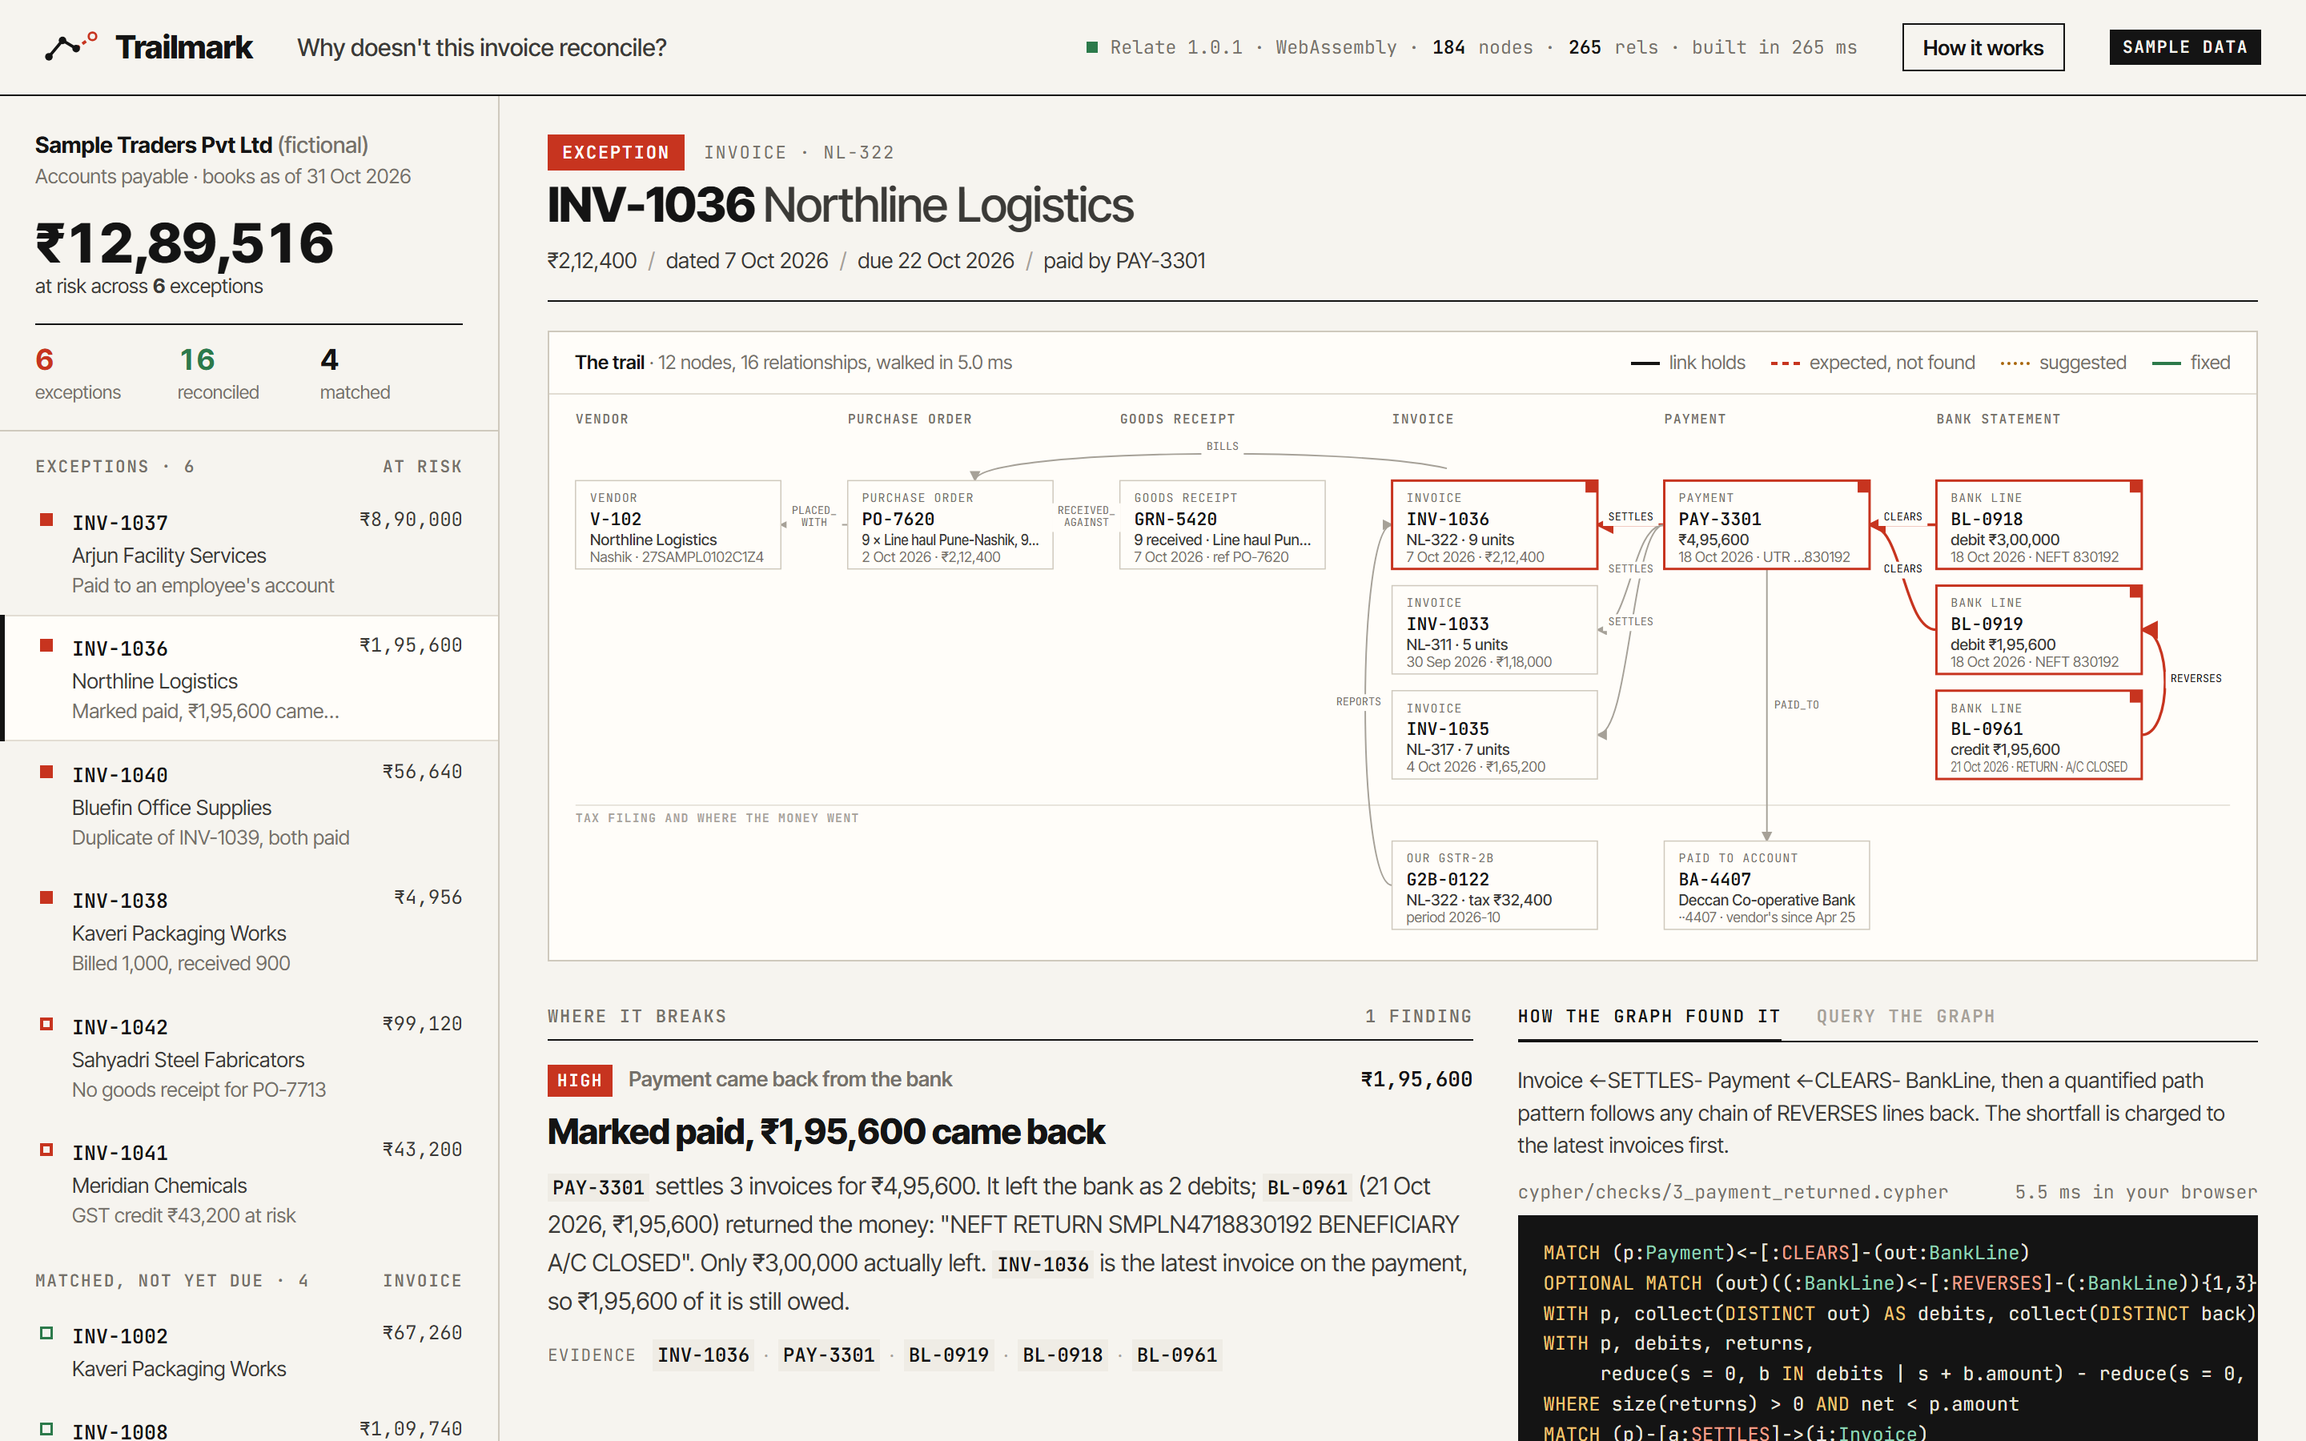
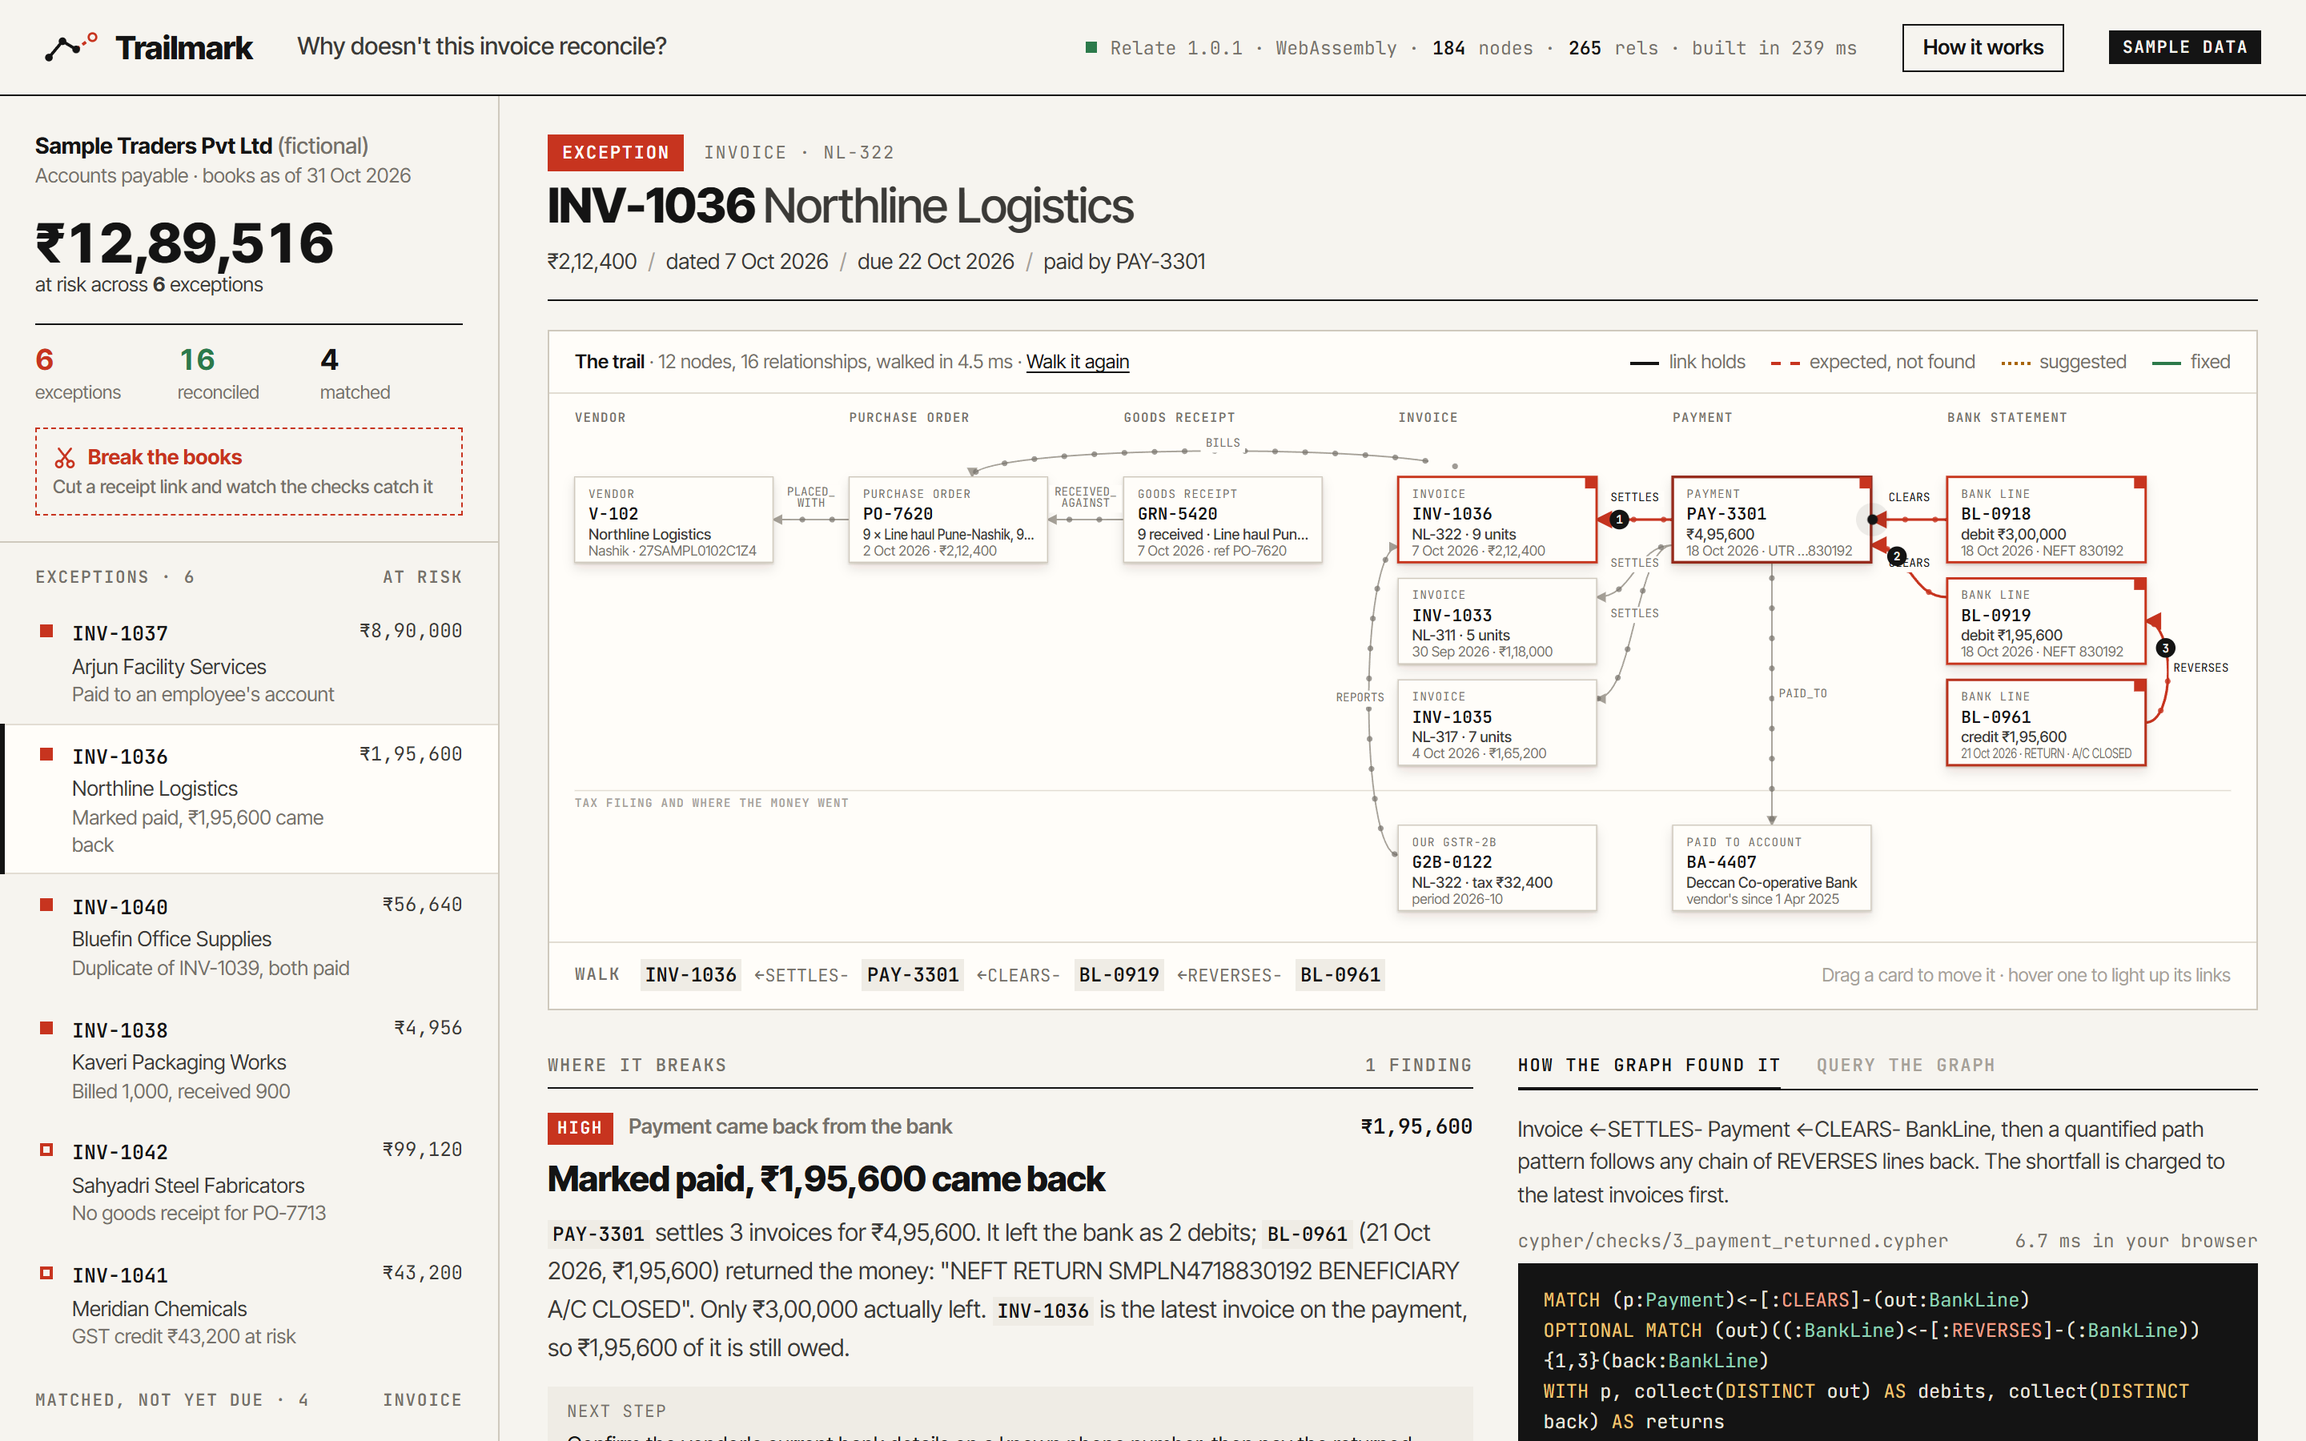
Review fixes: honest tie wording, one ruled-out receipt drawn, labels clear of badges, walks follow the money from the open invoice, next step per finding, warm timings, fresh screenshots

diff --git a/web/app.js b/web/app.js
@@ -57,12 +57,15 @@ function explain(id) {
     const m = r.match(/^(\S+) \(([\d.]+)(?:, already received against ([^)\s]+))?/);
     if (m) rejected[m[1]] = { score: m[2], po: m[3] || null, text: r };
   }
+  const shown = Object.keys(rejected).slice(0, 1);
+  for (const g of Object.keys(rejected)) if (!shown.includes(g)) delete rejected[g];
+  const moreRejected = found.reduce((a, f) => a + Math.max(0, (f.suggestion?.rejected || []).length - 1), 0);
   const extra = [...new Set(found.flatMap((f) => [...(f.path || []), ...(f.suggestion ? [f.suggestion.grn] : [])])
     .concat(Object.entries(rejected).flatMap(([g, r]) => (r.po ? [g, r.po] : [g]))))];
   const env = run(S.Q.trail.text, { id, extra });
   S.timings.trail = env.elapsed_ms;
   const t = env.rows[0];
-  return { inv, status: S.states[id], findings: found, nodes: t.nodes, rels: t.rels.filter(Boolean), rejected };
+  return { inv, status: S.states[id], findings: found, nodes: t.nodes, rels: t.rels.filter(Boolean), rejected, moreRejected };
 }
 
 // ---------------------------------------------------------------- formatting
@@ -304,7 +307,7 @@ function renderTrail(ex, animate) {
     const rej = ex.rejected?.[it.id];
     const ev = L.ev.has(it.id);
     const cls = ['card', isFixed ? 'fixed' : isCand ? 'cand' : rej ? 'rej' : '', ev && !isFixed ? 'ev' : '', ev && L.high ? 'high' : '', it.id === ex.inv.id ? 'focus' : '', animate ? 'appear' : ''].join(' ');
-    const kind = isCand ? 'Candidate receipt' : isFixed ? 'Receipt · linked now' : rej ? `Ruled out · text score ${rej.score}` : KIND[it.label];
+    const kind = isCand ? 'Candidate receipt' : isFixed ? 'Receipt · linked now' : rej ? `Ruled out · score ${rej.score}` : KIND[it.label];
     const l2b = rej ? (rej.po ? `already received against ${rej.po}` : 'different quantity') : l2;
     const tip = rej ? rej.text : GLOSS[it.label];
     cards += `<g class="${cls}" style="animation-delay:${delay}ms" data-id="${it.id}">${tip ? `<title>${esc(tip)}</title>` : ''}
@@ -312,7 +315,7 @@ function renderTrail(ex, animate) {
       <text class="k" x="${x + 12}" y="${y + 18}">${esc(kind)}</text>
       <text class="i" x="${x + 12}" y="${y + 37}">${esc(it.id)}</text>${rej ? `<line class="strike" x1="${x + 10}" x2="${x + 14 + it.id.length * 8.9}" y1="${y + 32}" y2="${y + 32}"/>` : ''}
       ${fit('l1', x + 12, y + 54, l1, 23)}
-      ${fit('l2', x + 12, y + 68, l2b, 26)}
+      ${fit('l2', x + 12, y + 68, l2b, 26)}${rej && ex.moreRejected ? `<text class="more" x="${x + 12}" y="${y + H + 14}">+${ex.moreRejected} more ruled out (see the finding)</text>` : ''}
       ${ev && !isFixed ? `<rect class="flag" x="${x + W - 10}" y="${y}" width="10" height="10"/>` : ''}</g>`;
   }
   const marker = (id, color) => `<marker id="arr-${id}" viewBox="0 0 8 8" refX="7" refY="4" markerWidth="7" markerHeight="7" orient="auto-start-reverse"><path d="M0 0 L8 4 L0 8 z" fill="${color}"/></marker>`;
@@ -339,6 +342,7 @@ function placeCut(svg) {
   if (!e) return b.remove();
   const pt = e.getPointAtLength(e.getTotalLength() / 2);
   b.setAttribute('transform', `translate(${pt.x} ${pt.y})`); b.setAttribute('opacity', '1');
+  svg.querySelector(`.elab[data-k="${e.dataset.k}"]`)?.setAttribute('transform', 'translate(0 -14)');
 }
 function cutLink(grn, po) {
   const inv = S.sel, svg = $('svg.trail');
@@ -389,9 +393,20 @@ function walkSteps(ex) {
     if (p.length && p[p.length - 1] === ex.inv.id && p[0] !== ex.inv.id) p = p.reverse();
     // the evidence can branch (one account, two people): each hop starts from the latest visited card it is joined to
     const joined = (x, y) => ex.rels.some((r) => (r.from === x && r.to === y) || (r.from === y && r.to === x));
-    for (let i = 1; i < p.length; i++) {
-      const from = p.slice(0, i).reverse().find((x) => joined(x, p[i])) || p[i - 1];
-      steps.push([from, p[i]]);
+    // walk as a chain that follows the money first (invoice, payment, account, its owner), then the paperwork and approvals;
+    // when the current card has no unvisited neighbour, back up to the last card that has one
+    const ORDER = ['SETTLES', 'PAID_TO', 'HAS_ACCOUNT', 'CLEARS', 'REVERSES', 'BILLS', 'RECEIVED_AGAINST', 'NEW_ACCOUNT', 'ENTERED', 'APPROVED', 'REPORTS'];
+    const rank = (x, y) => Math.min(...ex.rels.filter((r) => (r.from === x && r.to === y) || (r.from === y && r.to === x)).map((r) => (ORDER.indexOf(r.type) + 1) || 99));
+    const seen = [p.includes(ex.inv.id) ? ex.inv.id : p[0]];
+    while (seen.length < p.length) {
+      const left = p.filter((x) => !seen.includes(x));
+      let from = null, to = null;
+      for (const x of [...seen].reverse()) {
+        const opts = left.filter((y) => joined(x, y)).sort((u, v) => rank(x, u) - rank(x, v));
+        if (opts.length) { from = x; to = opts[0]; break; }
+      }
+      if (!to) { from = seen[seen.length - 1]; to = left[0]; }
+      steps.push([from, to]); seen.push(to);
     }
     if (f.missing) steps.push([f.missing.after, '__ghost_' + f.missing.label, KIND[f.missing.label] || 'link']);
   }
@@ -456,7 +471,7 @@ function walk(ex, quiet = false) {
 function hopBadge(el, a, b) {
   const svg = $('svg.trail'), layer = svg?.querySelector('.hops'); if (!layer) return;
   let pt;
-  if (el) pt = el.getPointAtLength(el.getTotalLength() / 2);
+  if (el) pt = el.getPointAtLength(el.getTotalLength() * (el.dataset.t ? 0.3 : 0.5));
   else { const A = LAST.pos[a], B = LAST.pos[b]; if (!A || !B) return; pt = { x: (A.x + B.x + W) / 2, y: (A.y + B.y + H) / 2 }; }
   const n = layer.children.length + 1;
   layer.insertAdjacentHTML('beforeend', `<g class="hopn${!el || el.classList.contains('brk') ? ' miss' : ''}" transform="translate(${pt.x} ${pt.y})"><circle r="8.5"/><text y="3.6" text-anchor="middle">${n}</text></g>`);
@@ -560,6 +575,7 @@ function renderStage(animate = true) {
       <div class="f-top"><span class="sev ${f.severity}">${f.severity.toUpperCase()}</span><span class="f-title">${esc(f.title)}</span><span class="f-amt">${inr(f.amount)}</span></div>
       <h3 class="f-head">${rich(f.headline)}</h3>
       <p class="f-detail">${rich(f.detail)}</p>
+      ${nextStep(f) ? `<p class="f-next"><span class="lbl">Next step</span>${esc(nextStep(f))}</p>` : ''}
       <div class="f-path"><span class="lbl">Evidence</span>${(f.path || []).map((id) => `<span class="chip" data-id="${id}">${id}</span>`).join('<span class="arr">·</span>')}</div>
       ${f.suggestion ? `<div class="fix"><div><p><b>Suggested fix:</b> ${rich(f.suggestion.text)}</p>
         <small>Vector search over receipt text from the same vendor scored it ${Number(f.suggestion.similarity).toFixed(2)}${(f.suggestion.rejected || []).length ? `; the graph ruled out ${f.suggestion.rejected.map(esc).join(', ')}` : ''}. The link is written to the graph in this tab only; reload to undo.</small></div>
@@ -592,6 +608,8 @@ function renderStage(animate = true) {
   placeCut($('svg.trail'));
   walk(ex);
 }
+
+function nextStep(f) { return S.Q.checks.find((c) => c.file === f.file)?.next || ''; }
 
 function fixedNote(grn, v) {
   return `<div class="fixed-note"><b>Linked ${grn} → ${v.po}</b> in this tab, recorded on the relationship as
@@ -632,7 +650,7 @@ function renderSide(ex) {
     side.innerHTML = tabs + files.map((c) => `
       <p class="q-why">${esc(c.graph || c.plain)}</p>
       <div class="q-file"><span>${c.file}</span><span>${fmtMs(S.timings[c.file] ?? S.timings.trail)} in your browser</span></div>
-      <pre class="cy">${highlight(c.text.split('\n').filter((l) => !/^\/\/\s*(title|plain|graph):/.test(l)).join('\n'))}</pre>`).join('<div style="height:18px"></div>');
+      <pre class="cy">${highlight(c.text.split('\n').filter((l) => !/^\/\/\s*(title|plain|graph|next):/.test(l)).join('\n'))}</pre>`).join('<div style="height:18px"></div>');
   } else {
     side.innerHTML = tabs + `<div class="console">
       <div class="presets">${PRESETS.map(([n], i) => `<button class="preset" data-preset="${i}">${esc(n)}</button>`).join('')}</div>
@@ -738,7 +756,7 @@ async function boot() {
     S.graph = graph; S.Q = Q;
     const t1 = performance.now();
     loadGraph();
-    scan();
+    scan(); explain('INV-1001'); scan(); // the first run warms the engine; show the second run's timings
     findCuttable();
     const n = graph.nodes.reduce((a, g) => a + g.rows.length, 0), r = graph.rels.reduce((a, g) => a + g.rows.length, 0);
     eng.classList.add('ready');

diff --git a/web/style.css b/web/style.css
@@ -353,3 +353,6 @@ table.res td { border-bottom: 1px solid var(--rule); padding: 5px 8px 5px 0; fon
 @media (max-width: 1180px) { .engine { display: none; } }
 @media (max-width: 960px) { .tagline { display: none; } }
 .linkish { border: none; background: none; padding: 0; font: inherit; font-family: var(--mono); font-weight: 600; font-size: 13px; text-decoration: underline; cursor: pointer; color: var(--red); }
+.card .more { font-size: 11px; fill: var(--ink-3); font-style: italic; }
+.f-next { margin: 12px 0 0; padding: 8px 12px; background: var(--paper-2); font-size: 13.5px; line-height: 1.5; color: var(--ink); }
+.f-next .lbl { display: block; font-family: var(--mono); font-size: 10.5px; letter-spacing: .06em; text-transform: uppercase; color: var(--ink-3); margin-bottom: 2px; }

diff --git a/README.md b/README.md
@@ -4,9 +4,9 @@
 
 **Why doesn't this invoice reconcile?** Trailmark follows an invoice through the accounts-payable trail (purchase order, goods receipt, invoice, payment, bank line, our GSTR-2B) as a [Relate](https://github.com/relatedb/relate) graph. It points at the exact link that is broken and shows the path that proves it.
 
-[**Live demo**](https://automationbot24x7.github.io/trailmark/) (runs in your browser, nothing to install) · [**Demo video (1:42)**](https://youtu.be/RA4vIVOmemc) · Python, CLI and AI-agent tools below
+[**Live demo**](https://automationbot24x7.github.io/trailmark/web/) (runs in your browser, nothing to install) · [**Demo video (1:42)**](https://youtu.be/RA4vIVOmemc) · Python, CLI and AI-agent tools below
 
-![Trailmark showing invoice INV-1042: the goods-receipt link is missing, and a receipt keyed against a non-existent PO is suggested as the fix](docs/shot-INV-1042.png)
+![Trailmark showing invoice INV-1042: the goods-receipt link is missing, a receipt keyed against a non-existent PO is suggested as the fix, and a look-alike receipt with a perfect text score is struck out because it already belongs to PO-7604](docs/shot-INV-1042.png)
 
 > **Sample data.** Every vendor, person, GSTIN, bank account and amount in this repo is invented. GSTINs carry `SAMPL` in the PAN slot and IFSC codes start with `SMPL`, so nothing can be mistaken for a real registration or account.
 
@@ -14,10 +14,12 @@
 
 Open any reconciled invoice in the live demo (or press **Break the books**) and cut its receipt link with the scissors. The link is removed from the Relate graph in your tab with a real `DELETE`, all six checks run again in a few milliseconds, and the invoice becomes an exception with the same receipt offered back as the fix. The test suite does the same for all 19 such invoices on every push: each cut is caught exactly once and nothing else changes ([`cypher/cuttable.cypher`](cypher/cuttable.cypher) picks them, `test_8` in [`tests/test_trailmark.py`](tests/test_trailmark.py) checks them).
 
+![INV-1001 after its receipt link was cut: the banner reads 7 exceptions (was 6), ₹13,29,164 at risk; the trail shows the missing receipt, the same receipt offered back as the fix, and a look-alike receipt ruled out because it already belongs to PO-7720](docs/shot-cut.png)
+
 ## Why a graph, not six SQL joins
 
-- **Check 3** follows a chain of bank reversals with a quantified path pattern (`{1,3}`); in SQL that is a recursive query.
-- **Check 6** looks at every 1 to 3 hop path from a payment to any employee over five relationship types at once: who approved it, who entered the new bank details, who owns the receiving account.
+- **Check 3** follows a chain of bank reversals with a quantified path pattern (`{1,3}`); in SQL that is three self-joins or a recursive query.
+- **Check 6** looks at every 1 to 3 hop path from a payment to any employee over five relationship types at once: who approved it, who entered the new bank details, who owns the receiving account ([side by side with SQL below](#check-6-in-cypher-and-in-sql)).
 - **Check 1** runs a vector search and graph rules in one statement. On `INV-1042` the text match scores `GRN-5404` highest (1.00), and the graph rules it out because it is already received against `PO-7604`; the app draws that ruled-out receipt struck through, next to the PO it belongs to.
 - **One file holds it all:** `store/trailmark.rl` is committed. The browser, the CLI and the AI-agent server run the same `.cypher` files against it, and a fix made from the CLI or an agent is written into it with who made it and why.
 
@@ -147,7 +149,7 @@ python -m trailmark link GRN-5520 PO-7713 --note "PO digits swapped at stores"  
 python -m trailmark build                                                       # rebuild store/trailmark.rl from the CSVs
 ```
 
-Other commands: `python -m trailmark cypher "MATCH (v:Vendor) RETURN v.name"` (read-only query), `python -m trailmark export` (refresh the browser copy), `python -m unittest -v` (seven end-to-end tests).
+Other commands: `python -m trailmark cypher "MATCH (v:Vendor) RETURN v.name"` (read-only query), `python -m trailmark export` (refresh the browser copy), `python -m unittest -v` (eight end-to-end tests).
 
 **Your own ledgers:** replace the CSVs in `data/sample/` with your own exports, keeping the column headers, then run `python -m trailmark build`. Each file's columns are listed in its header row; `data/generate_sample.py` shows how the sample was made.
 
@@ -199,7 +201,7 @@ In the browser the same fix is one button, and the trail turns green:
 
 [`.mcp.json`](.mcp.json) registers it (run your agent from the repo folder with the virtual environment active), alongside Relate's own `relate serve --mcp stdio --read-only` for raw access. [`AGENTS.md`](AGENTS.md) has the instructions and the questions used in the demo. Running `relate skill install` also teaches coding agents Relate's Cypher dialect.
 
-## Why a graph
+## Check 6 in Cypher and in SQL
 
 Check 6 asks: which of our own people are within three hops of this payment, and how? In Cypher, that is one pattern over a list of relationship types:
 
